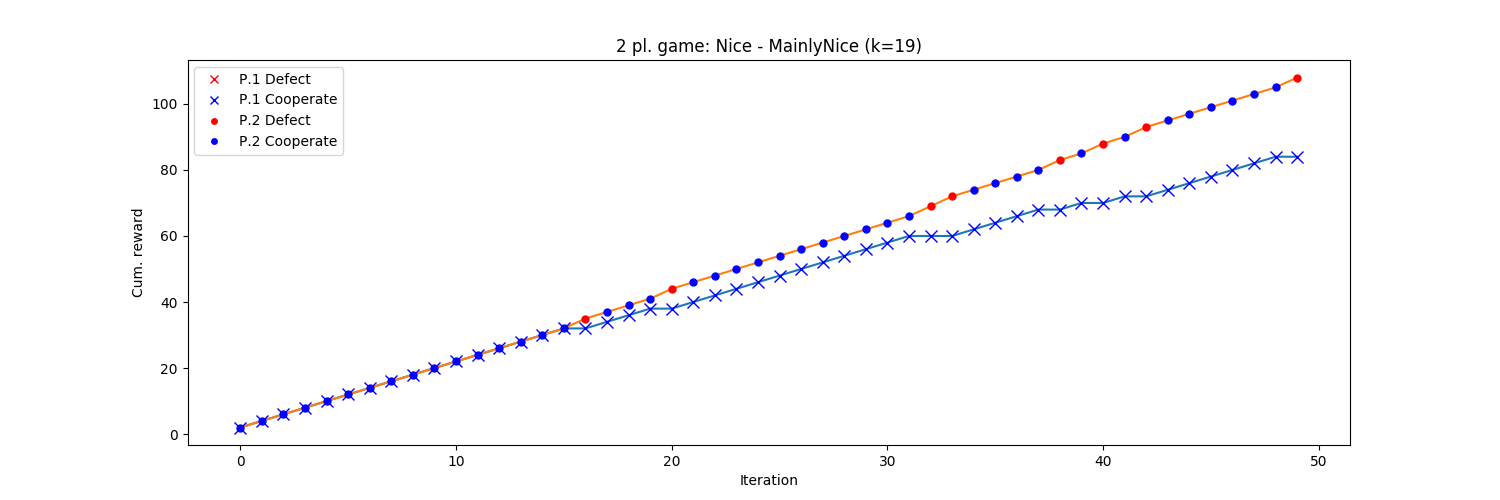
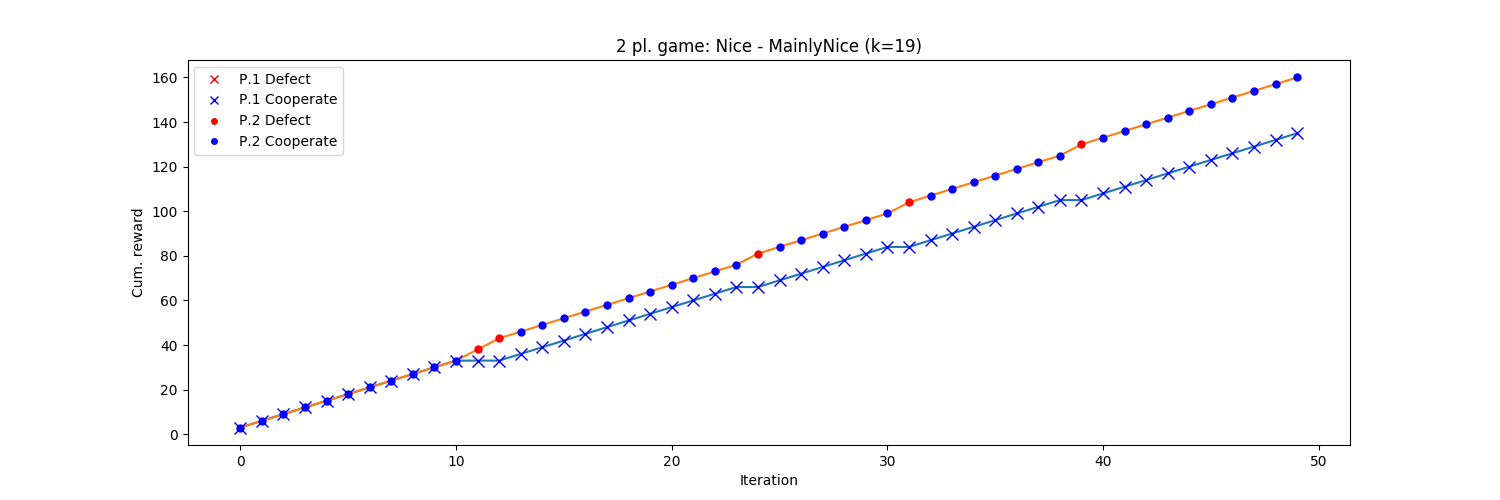
added GrimTrigger

diff --git a/code/strategy.py b/code/strategy.py
@@ -231,3 +231,20 @@ class TitForTat(Strategy):
         if last_move is None:
             return 0 # cooperate the first time
         return last_move # repeat past opponent move
+
+class GrimTrigger(Strategy):
+    """Cooperate at first, if opponent defects once then always defect."""
+
+    def __init__(self):
+        self.triggered = False
+
+    def __str__(self):
+        return "GrimTrigger"
+
+    def get(self, last_move=None):
+        if last_move is 1:
+            self.triggered = True
+
+        if self.triggered:
+            return 1 # always defect
+        return 0 # else cooperate
